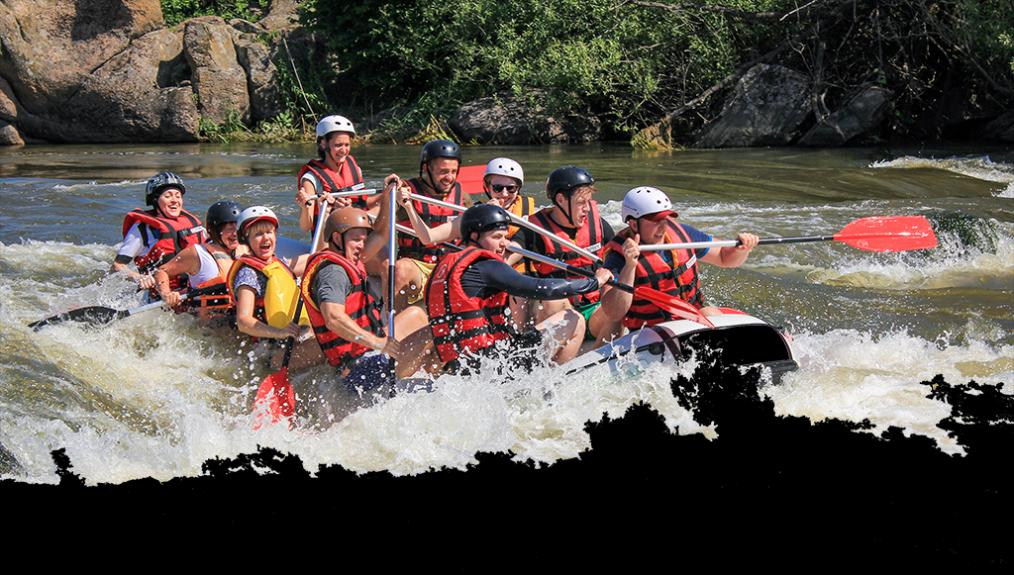
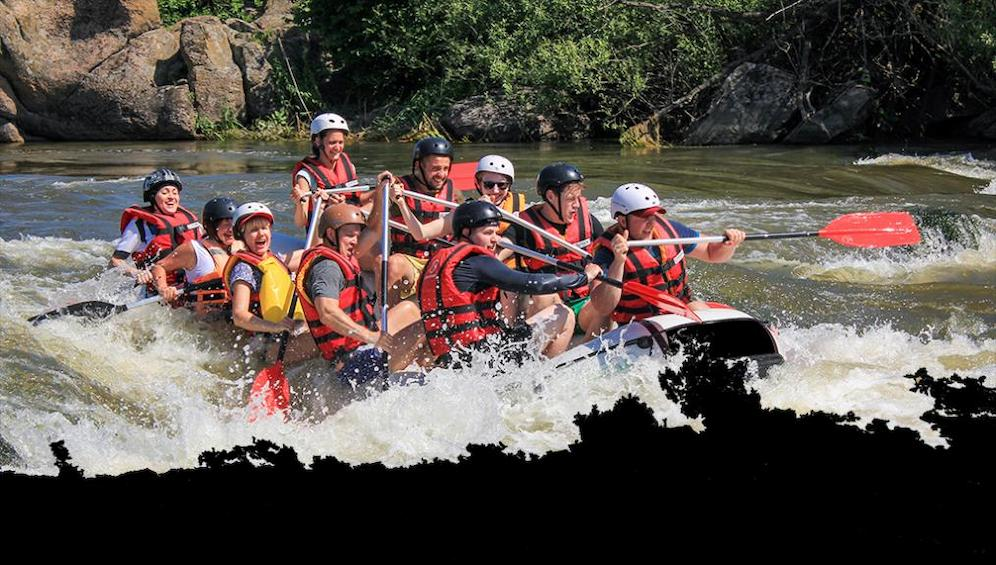
hero article element

diff --git a/wrr/styles/rafting.css b/wrr/styles/rafting.css
@@ -68,7 +68,7 @@ article {
     color: var(--background-color);
 }
 
-article {
+.hero article {
     position: absolute;
     font-family: var(--body-font);
     color: var(--text-color);
